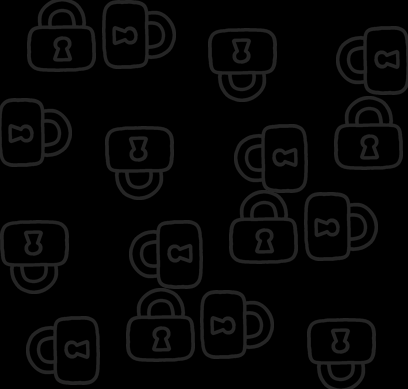
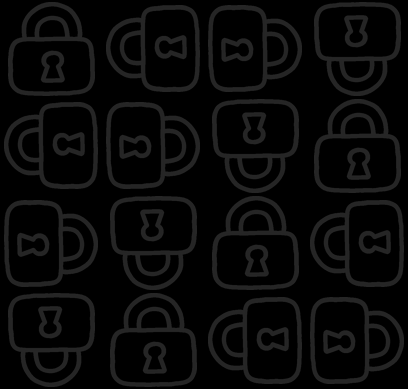
fix(ui): lay the new backdrops out the way charter.png does
Charter's arrangement, not default's: an exact 4x4 grid (102 x 97.25 cells,
94 px glyphs filling them), and the rotation of a cell is base[(r + c) % 4] with
base = [0, 90, 270, 180] - one direction per anti-diagonal. Verified by running
the same rotation detector that measured charter.png over the generated files:
all sixteen cells come out identical.

No ring layer and no jitter this time, which is what made the first attempt read
as default.png with a different glyph.

The runtime copy next to the exe is updated as well, and integrity.dat was
re-signed for the two files offline (the HMAC is in the source; the signature it
produced matches the one the engine wrote, checked before patching). No game
window was started.

Changed region(s): [[0.0, 0.0, 1.0, 1.0]]

diff --git a/docs/SESSION_CHANGES.md b/docs/SESSION_CHANGES.md
@@ -212,9 +212,10 @@ V7（key token 只是混淆，不是分发密钥的安全手段）。
 
 - `assets/images/editors/bgs/` 新增两张：`cmd.png`（终端窗口）、`lock.png`（挂锁）。
   都是 408×389、黑底、描边 38 灰，和 `charter.png` / `default.png` 同一套参数。
-  排布**直接用的是 `default.png` 自己的 16 个槽位**（位置、抖动、四个朝向各四个），所以布局节奏
-  和它一致，不是另外设计一套。`default.png` 里那层 31px 小圆环**没有搬**——那是音符的附属图案，
-  放到挂锁/终端旁边只会像贴上去的；少了它，字因而放大到 74px，补回一点密度。
+- 排布**照 `charter.png`**：严格的 4×4 网格（格 102×97.25，字形 94px，几乎顶满格子），
+  每格朝向是 `base[(r + c) % 4]`（`base = [0°, 90°, 270°, 180°]`），也就是同一个方向沿反对角线
+  连成一条——和 `charter.png` 量出来的规律逐格一致（生成后又用同一套检测反查过）。
+  没有 `default.png` 那层小圆环，也没有随机抖动。
 - `PopupScreen` 新增 `bgType`：设了就在遮罩之上铺一层 `FlxBackdrop`，倾斜 −5°、85 px/s
   平移，和 `EditorTreeMenu` 的编辑器背景同一套参数。分层顺序是"遮罩 → 背景 → 面板"：
   背景本身已经是 15% 灰，压在 70% 遮罩下面会被压到 4%，等于看不见。
